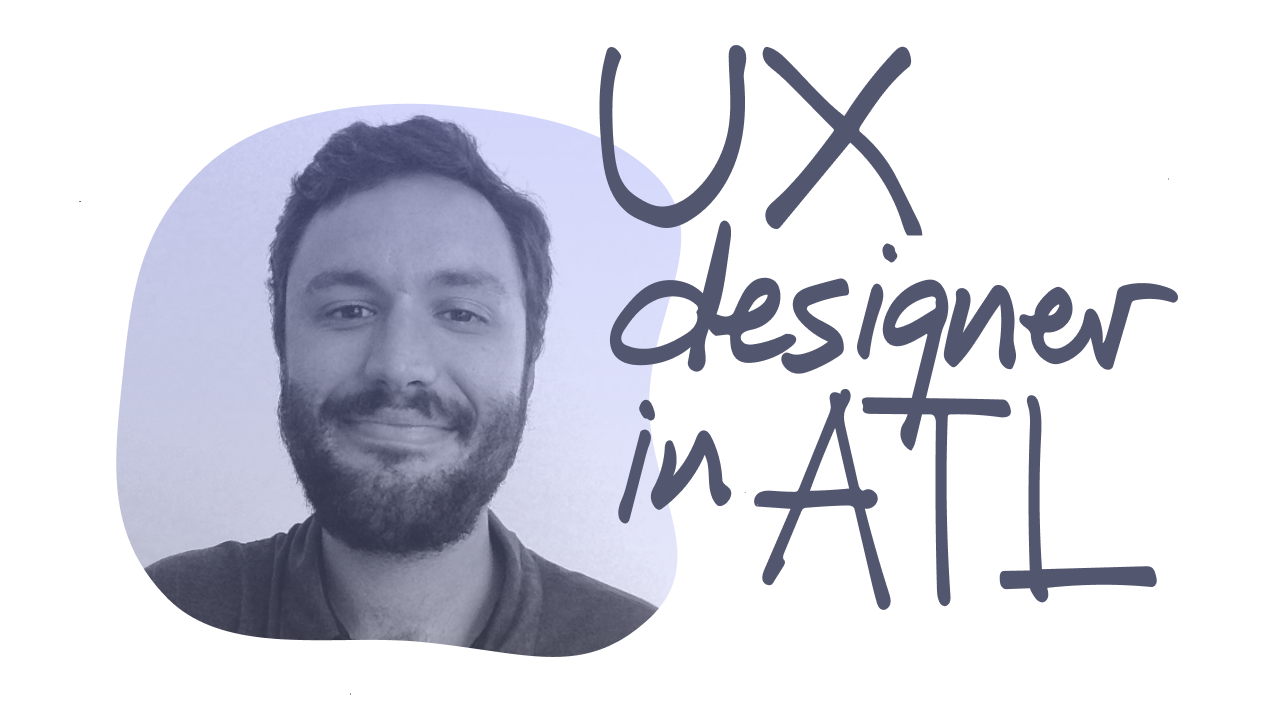
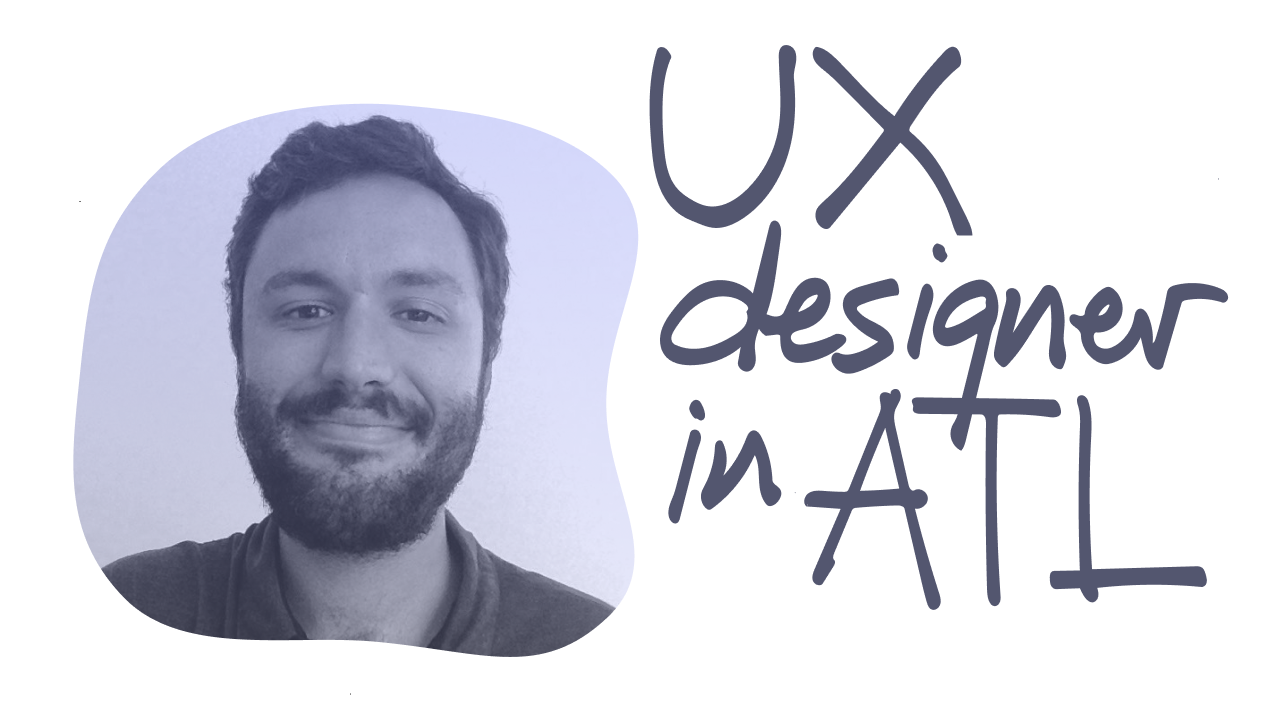
makes homepage image dynamic based on light/dark mode

Changed region(s): [[0.0312, 0.0616, 0.9688, 0.9244], [0.1875, 0.8936, 0.2188, 0.9244]]

diff --git a/index.html b/index.html
@@ -43,7 +43,7 @@
     </header>
 
     <main>
-        <img class="img-large img-center" src="img/homepage-image.png" alt="Profile Picture of Edwin" />
+        <img id="homepage-img" class="img-large img-center" src="img/homepage-image.png" alt="Profile Picture of Edwin" />
         <h1 style="margin-left: 16px;">Projects</h1>
         
         <section>

diff --git a/css/dark-mode.css b/css/dark-mode.css
@@ -55,4 +55,8 @@
         border-color: transparent transparent black transparent;
     }
 
+    #homepage-img {
+        background: url(https://edwinchoate.com/img/homepage-image-dark-mode.png) no-repeat;
+    }
+
 }
